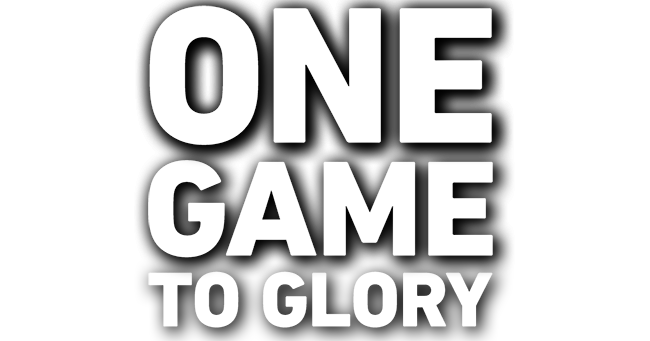
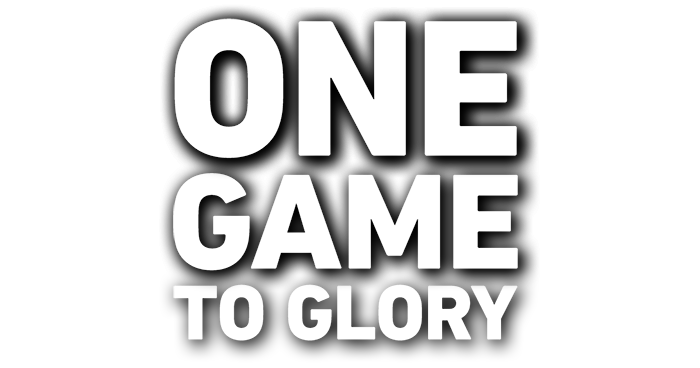
some refactoring

Changed region(s): [[0.2154, 0.0, 0.8, 1.0]]

diff --git a/js/gsap_animation.js b/js/gsap_animation.js
@@ -1,47 +1,77 @@
 gsap.to('.cup', { duration: 3, y: '0%' });
-gsap.to('.confetti', { duration: 3, delay: 1, y: '0%' });
+gsap.to('.confetti', { duration: 3, delay: 2, ease: 'power3.out', y: '0%' });
 gsap.to('.funs_left', {
-  duration: 14,
+  duration: 26,
   delay: 3,
+  ease: 'power1.out',
   keyframes: [
+    { x: '-80%' },
     { x: '-60%' },
     { x: '-40%' },
     { x: '-20%' },
-    { x: '-1%' },
-    { x: '-1%' },
-    { x: '-1%' },
-    { x: '-1%' },
-    { x: '-1%' },
-    { x: '-1%' },
+    { x: '0%' },
+    { x: '0%' },
+    { x: '0%' },
+    { x: '0%' },
+    { x: '0%' },
+    { x: '0%' },
     { x: '-20%' },
     { x: '-40%' },
     { x: '-60%' },
     { x: '-80%' },
+    { x: '-100%' },
   ],
 });
 gsap.to('.funs_right', {
-  duration: 14,
+  duration: 26,
   delay: 3,
+  ease: 'power1.out',
   keyframes: [
+    { x: '80%' },
     { x: '60%' },
     { x: '40%' },
     { x: '20%' },
-    { x: '1%' },
-    { x: '1%' },
-    { x: '1%' },
-    { x: '1%' },
-    { x: '1%' },
-    { x: '1%' },
+    { x: '0%' },
+    { x: '0%' },
+    { x: '0%' },
+    { x: '0%' },
+    { x: '0%' },
+    { x: '0%' },
     { x: '20%' },
     { x: '40%' },
     { x: '60%' },
     { x: '80%' },
+    { x: '100%' },
   ],
 });
 
 gsap.to('.title_one', {
+  duration: 2,
+  delay: 6,
+  keyframes: [
+    { opacity: 0.5 },
+    { opacity: 0.7 },
+    { opacity: 1 },
+    { opacity: 0.7 },
+    { opacity: 0.5 },
+    { opacity: 0 },
+  ],
+});
+gsap.to('.title_game', {
+  duration: 2,
+  delay: 7,
+  keyframes: [
+    { opacity: 0.5 },
+    { opacity: 0.7 },
+    { opacity: 1 },
+    { opacity: 0.7 },
+    { opacity: 0.5 },
+    { opacity: 0 },
+  ],
+});
+gsap.to('.title_glory', {
   duration: 7,
-  delay: 5,
+  delay: 8,
   keyframes: [
     { opacity: 0.5 },
     { opacity: 0.7 },
@@ -53,7 +83,7 @@ gsap.to('.title_one', {
 });
 gsap.to('.team_left', {
   duration: 4,
-  delay: 6,
+  delay: 8,
   keyframes: [
     { opacity: 0.5 },
     { opacity: 0.7 },
@@ -65,7 +95,7 @@ gsap.to('.team_left', {
 });
 gsap.to('.team_right', {
   duration: 4,
-  delay: 6,
+  delay: 8,
   keyframes: [
     { opacity: 0.5 },
     { opacity: 0.7 },
@@ -77,8 +107,8 @@ gsap.to('.team_right', {
 });
 
 gsap.to('.label_left', {
-  duration: 4,
-  delay: 10,
+  duration: 3.5,
+  delay: 12,
   keyframes: [
     { opacity: 0.2 },
     { opacity: 0.5 },
@@ -90,8 +120,8 @@ gsap.to('.label_left', {
   ],
 });
 gsap.to('.label_right', {
-  duration: 4,
-  delay: 10,
+  duration: 3.5,
+  delay: 12,
   keyframes: [
     { opacity: 0.2 },
     { opacity: 0.5 },
@@ -106,5 +136,5 @@ gsap.to('.label_right', {
 gsap.to('.final_result', {
   opacity: 1,
   duration: 1,
-  delay: 12,
+  delay: 14,
 });

diff --git a/index.html b/index.html
@@ -4,14 +4,20 @@
     <meta charset="UTF-8" />
     <meta http-equiv="X-UA-Compatible" content="IE=edge" />
     <meta name="viewport" content="width=device-width, initial-scale=1.0" />
-
+    <link
+      rel="stylesheet"
+      href="https://cdnjs.cloudflare.com/ajax/libs/modern-normalize/1.0.0/modern-normalize.min.css"
+      integrity="sha512-ISS7cAi1PEhQ8jnbJpJZMd29NlhNj4AWYyLOSp2CE/CsHxTCu+r+t0D2yoJudVrd0/8fTVPUVDzY5Tvli75u/g=="
+      crossorigin="anonymous"
+    />
     <link rel="stylesheet" href="./main.css" />
 
     <title>Funs club</title>
   </head>
   <body>
     <div class="modal container">
-      <button class="close_button">X</button>
+      <button class="close_button"></button>
+      <button class="content_button"></button>
 
       <div class="cup">
         <img src="./img/cup.png" alt="" width="1280" />
@@ -30,39 +36,44 @@
       </div>
 
       <div class="title_one">
-          <img src="./img/glory2.png" alt="">
+        <img src="./img/one.png" alt="" />
+      </div>
+      <div class="title_game">
+        <img src="./img/one_game.png" alt="" />
+      </div>
+      <div class="title_glory">
+        <img src="./img/one_game_to_glory.png" alt="" />
       </div>
 
       <div class="team_left">
-          <img src="./img/team_left.png" alt="">
+        <img src="./img/team_left.png" alt="" />
       </div>
 
-    <div class="team_right">
-        <img src="./img/team_right.png" alt="">
-    </div>
+      <div class="team_right">
+        <img src="./img/team_right.png" alt="" />
+      </div>
 
-    <div class="label_left">
-        <img src="./img/logo_left_s.png" alt="">
-    </div>
-    
-    <div class="label_right">
-        <img src="./img/logo_right_s.png" alt="">
-    </div>
+      <div class="label_left">
+        <img src="./img/logo_left_s.png" alt="" />
+      </div>
 
-    <div class="final_result">
-        <img src="./img/final_cup.png" alt="">
-    </div>
-    <!-- <div class="final_cup_left">
+      <div class="label_right">
+        <img src="./img/logo_right_s.png" alt="" />
+      </div>
+
+      <div class="final_result">
+        <img src="./img/final_cup.png" alt="" />
+      </div>
+      <!-- <div class="final_cup_left">
         <img src="./img/final_cup_l.png" alt="">
     </div>
     
     <div class="final_cup_right">
         <img src="./img/logo_right_s.png" alt="">
     </div> -->
-
-
     </div>
+    <script type="module" src="./index.js"></script>
     <script src="https://cdnjs.cloudflare.com/ajax/libs/gsap/3.9.1/gsap.min.js"></script>
-    <script src="./gsap_animation.js"></script>
+    <script src="./js/gsap_animation.js"></script>
   </body>
 </html>

diff --git a/main.css b/main.css
@@ -18,15 +18,15 @@ img {
   object-fit: cover;
 }
 .container {
-  padding-left: 30px;
-  padding-right: 30px;
+  /* padding-left: 30px;
+  padding-right: 30px; */
   margin-left: auto;
   margin-right: auto;
   width: 1220px;
 }
 .modal {
   position: fixed;
-  width: 1220px;
+  width: 100vw;
   overflow: hidden;
 }
 .close_button {
@@ -35,8 +35,18 @@ img {
   position: absolute;
   top: 10px;
   right: 20px;
-  z-index: 9999;
+  z-index: 1000;
 }
+
+.content_button{
+width: 15px;
+  height: 20px;
+  position: absolute;
+  top: 50px;
+  right: 50px;
+  z-index: 1000;
+}
+
 .cup {
   display: block;
   position: absolute;
@@ -54,8 +64,7 @@ img {
   position: absolute;
   top: 0;
   left: 0;
-  transform: translateX(-80%);
-  /* transform: translate(-49%, -49%); */
+  transform: translateX(-100%);
   z-index: 20;
 }
 
@@ -64,17 +73,31 @@ img {
   bottom: 0;
   right: 0;
   z-index: 20;
-   transform: translateX(80%)
-  /* transform: translate(50%, 50%); */
+  transform: translateX(100%);
 }
 
 .title_one {
   position: absolute;
-  top: 0;
-  left: 0;
-  transform: translate(110%, 25%);
+  top: 5%;
+  left: 20%;
+  /* transform: translate(110%, 25%); */
   opacity: 0;
   z-index: 24;
+}
+.title_game{
+ position: absolute;
+  top: 13%;
+  left: 20%;
+  z-index: 24;
+  opacity: 0;
+}
+
+.title_glory{
+ position: absolute;
+  top: 18%;
+  left: 20%;
+  z-index: 24;
+  opacity: 0;
 }
 
 .team_left {

diff --git a/index.js b/index.js
@@ -1,0 +1,24 @@
+// import modal from './js/modal';
+import * as basicLightbox from 'basiclightbox';
+// import 'basiclightbox/src/styles/main.scss';
+
+function openModal(e) {
+  //   if (e.target.nodeName !== 'BUTTON') {
+  //     return;
+  //   } else if (e.code === 'Escape') {
+  //     return;
+  //   }
+  return basicLightbox
+    .create(
+      ` <div>hello</div>`,
+      //   `<iframe width="560" height="315" src='https://www.youtube.com/watch?v=T0w6quMAICk'frameborder="0" allow="accelerometer; autoplay; encrypted-media; gyroscope; picture-in-picture" allowfullscreen></iframe>`,
+    )
+    .show();
+}
+
+const linkButton = document.querySelector('.content_button');
+console.log(basicLightbox);
+console.log('hello');
+console.log(linkButton);
+
+linkButton.addEventListener('click', openModal);

diff --git a/js/modal.js b/js/modal.js
@@ -1,0 +1,15 @@
+import * as basicLightbox from 'basiclightbox';
+import 'basiclightbox/src/styles/main.scss';
+
+export default function openModal(e) {
+  if (e.target.nodeName !== 'BUTTON') {
+    return;
+  } else if (e.code === 'Escape') {
+    return;
+  }
+  basicLightbox
+    .create(
+      `  <iframe width="560" height="315" src='https://myke-max.github.io/goit-js-hw-13-image-finder/'frameborder="0" allow="accelerometer; autoplay; encrypted-media; gyroscope; picture-in-picture" allowfullscreen></iframe>`,
+    )
+    .show();
+}
